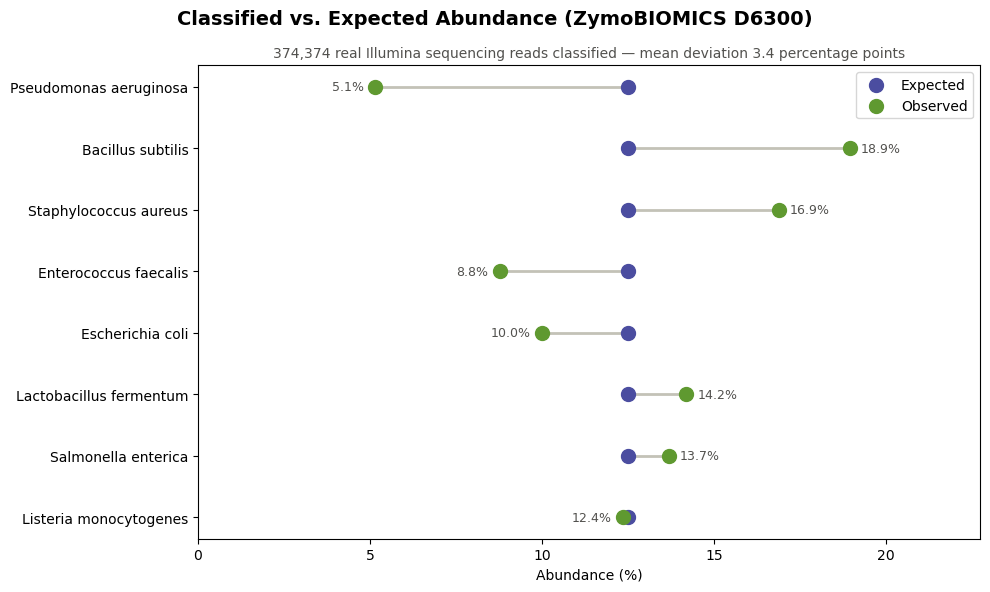
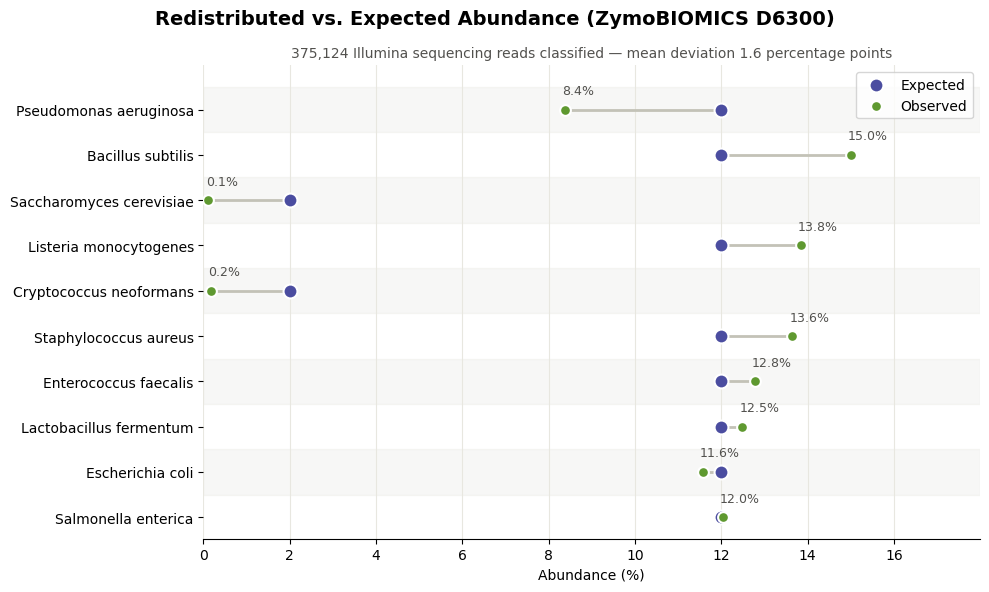
Brought README up to parity updated the validation figure with the new classification statistical methods.

diff --git a/docs/plot_zymobiomics_validation.py b/docs/plot_zymobiomics_validation.py
@@ -1,9 +1,9 @@
 """
-One-off portfolio graphic: observed vs. expected per-species abundance
-against the ZymoBIOMICS D6300 mock community, built from a completed
-pipeline.py run's classifications database.
+One-off portfolio graphic: redistributed observed vs. expected per-species
+abundance against the ZymoBIOMICS D6300 mock community, built from a
+completed classify_reads.py run's redistributed-abundance CSV.
 
-Dataset-specific - the ~12.5%-each expected values are Zymo's published
+Dataset-specific - the 12%/2% expected values are Zymo's published
 composition for this one commercial reference standard, which is why this
 lives here and not in src/visualization.py (general plotting code takes
 observed/expected as plain arguments; it doesn't know "Zymo" from any
@@ -16,28 +16,30 @@ import os
 import sys
 
 import matplotlib.pyplot as plt
+import pandas as pd
 from matplotlib.figure import Figure
 
 PROJECT_ROOT = os.path.dirname(os.path.dirname(os.path.abspath(__file__)))
 sys.path.insert(0, os.path.join(PROJECT_ROOT, "src"))
 
-from database import get_abundance  # type: ignore
-
-DB_PATH = os.path.join(PROJECT_ROOT, "results", "pseudomonas_investigation", "classifications.db")
+REDISTRIBUTED_CSV_PATH = os.path.join(PROJECT_ROOT, "results", "ten_species_redistribution", "classified_redistributed.csv")
 OUTPUT_PATH = os.path.join(PROJECT_ROOT, "results", "abundance_validation.png")
 
-# 8 species in the ZymoBIOMICS D6300 mock community, evenly represented by
-# Zymo's published design (1/8 = 12.5% each) - not something the classifier
-# measures, a fact about the reference standard itself.
+# 10 species in the ZymoBIOMICS D6300 mock community as of the 2026-08-17
+# yeast reintroduction: 8 bacteria at 12% each + 2 yeasts at 2% each
+# (8*12 + 2*2 = 100) - Zymo's published design, not something the
+# classifier measures, a fact about the reference standard itself.
 EXPECTED_ABUNDANCE = {
-    "Bacillus_subtilis_complete_genome": 12.5,
-    "Enterococcus_faecalis_complete_genome": 12.5,
-    "Escherichia_coli_complete_genome": 12.5,
-    "Lactobacillus_fermentum_complete_genome": 12.5,
-    "Listeria_monocytogenes_complete_genome": 12.5,
-    "Pseudomonas_aeruginosa_complete_genome": 12.5,
-    "Salmonella_enterica_complete_genome": 12.5,
-    "Staphylococcus_aureus_complete_genome": 12.5,
+    "Bacillus_subtilis_complete_genome": 12.0,
+    "Enterococcus_faecalis_complete_genome": 12.0,
+    "Escherichia_coli_complete_genome": 12.0,
+    "Lactobacillus_fermentum_complete_genome": 12.0,
+    "Listeria_monocytogenes_complete_genome": 12.0,
+    "Pseudomonas_aeruginosa_complete_genome": 12.0,
+    "Salmonella_enterica_complete_genome": 12.0,
+    "Staphylococcus_aureus_complete_genome": 12.0,
+    "Cryptococcus_neoformans_complete_genome": 2.0,
+    "Saccharomyces_cerevisiae_complete_genome": 2.0,
 }
 
 
@@ -71,32 +73,37 @@ def plot_abundance_comparison(observed: dict[str, float], expected: dict[str, fl
     ax.set_yticklabels([_display_name(s) for s in species])
     ax.invert_yaxis()
 
+    # Zebra striping and gridlines behind everything else.
+    for y in y_positions[::2]:
+        ax.axhspan(y - 0.5, y + 0.5, color="#c3c2b7", alpha=0.12, zorder=0)
+    ax.xaxis.grid(True, color="#e8e7e0", linewidth=0.8, zorder=0)
+    ax.set_axisbelow(True)
+    for spine in ("top", "right", "left"):
+        ax.spines[spine].set_visible(False)
+
     xmin = [min(e, o) for e, o in zip(expected_vals, observed_vals)]
     xmax = [max(e, o) for e, o in zip(expected_vals, observed_vals)]
 
     ax.hlines(y_positions, xmin, xmax, colors="#c3c2b7", linewidth=2, zorder=1)
-    ax.scatter(expected_vals, y_positions, color="#4B4DA0", s=100, zorder=2, label="Expected")
-    ax.scatter(observed_vals, y_positions, color="#5F9930", s=100, zorder=2, label="Observed")
-
-    # Direct labels on the Observed dots only - Expected repeats the same
-    # 12.5% eight times, so labeling it too would just be noise. Offset in
-    # points (screen space), not data units, so the gap next to the dot
-    # stays a constant size regardless of the x-axis scale. Which side the
-    # label sits on flips with which side the dot is on, so it never
-    # collides with the connecting line.
-    for y, e, o in zip(y_positions, expected_vals, observed_vals):
-        offset, ha = (8, "left") if o >= e else (-8, "right")
-        ax.annotate(f"{o:.1f}%", (o, y), xytext=(offset, 0), textcoords="offset points",
-                    va="center", ha=ha, fontsize=9, color="#52514e")
+    # White ring keeps each dot legible crossing the connecting line/gridlines.
+    ax.scatter(expected_vals, y_positions, color="#4B4DA0", s=100,
+               edgecolors="white", linewidths=1.5, zorder=3, label="Expected")
+    ax.scatter(observed_vals, y_positions, color="#5F9930", s=60,
+               edgecolors="white", linewidths=1.5, zorder=3, label="Observed")
 
     # Start the x-axis at 0 rather than autoscaling tight to the data - a
-    # truncated axis makes any gap look more dramatic than it is. Extra
-    # headroom (not just 10%) leaves room for the direct labels above.
-    ax.set_xlim(0, max(expected_vals + observed_vals) * 1.2)
+    # truncated axis makes any gap look more dramatic than it is.
+    xmax_val = max(expected_vals + observed_vals) * 1.2
+    ax.set_xlim(0, xmax_val)
+
+    # Labels sit above the dot (not left/right) so they never cross the connecting line.
+    for y, o in zip(y_positions, observed_vals):
+        ax.annotate(f"{o:.1f}%", (o, y), xytext=(-2, 9), textcoords="offset points",
+                    va="bottom", ha="left", fontsize=9, color="#52514e")
 
     mean_abs_dev = sum(abs(o - e) for o, e in zip(observed_vals, expected_vals)) / len(species)
     if n_reads is not None:
-        subtitle = f"{n_reads:,} real Illumina sequencing reads classified — mean deviation {mean_abs_dev:.1f} percentage points"
+        subtitle = f"{n_reads:,} Illumina sequencing reads classified — mean deviation {mean_abs_dev:.1f} percentage points"
     else:
         subtitle = f"mean deviation {mean_abs_dev:.1f} percentage points from expected"
 
@@ -112,13 +119,16 @@ def plot_abundance_comparison(observed: dict[str, float], expected: dict[str, fl
 
 
 def main():
-    abundance_df = get_abundance(DB_PATH)
-    observed = dict(zip(abundance_df["best_match"], abundance_df["percent"]))
-    n_reads = int(abundance_df["total"].iloc[0])
+    redistributed_df = pd.read_csv(REDISTRIBUTED_CSV_PATH)
+    observed = dict(zip(redistributed_df["species"], redistributed_df["percentage"]))
+    # Every classified read contributes exactly 1.0 total credit across the
+    # species it hit (proportional vote-share splitting), so the sum of
+    # estimated_reads is exactly the total classified-read count.
+    n_reads = round(redistributed_df["estimated_reads"].sum())
 
     plot_abundance_comparison(
         observed, EXPECTED_ABUNDANCE,
-        title="Classified vs. Expected Abundance (ZymoBIOMICS D6300)",
+        title="Redistributed vs. Expected Abundance (ZymoBIOMICS D6300)",
         n_reads=n_reads,
         output_path=OUTPUT_PATH,
     )

diff --git a/README.md b/README.md
@@ -29,9 +29,9 @@ python src/pipeline.py \
   --source SRA
 ```
 
-Everything it produces (index, classifications CSV, SQLite database,
-diversity report, species-abundance CSV, abundance plot) lands in
-`--output-dir`. A few flags worth knowing about:
+Everything it produces (index, classifications CSV, redistributed-abundance
+CSV, SQLite database, diversity report, species-abundance CSV, abundance
+plot) lands in `--output-dir`. A few flags worth knowing about:
 
 - `--index path/to/kmer_index.pkl` reuses an existing index instead of
   rebuilding it. It's independent of `--genome-dir`. If you pass both,
@@ -66,22 +66,38 @@ them with `--help` for their options.
   appear in many genomes by chance (DNA has only 4 letters), making them
   non-discriminating. Real tools like Kraken2 use k in the 21-35 range for
   the same reason.
+- **Splitting votes for better abundance estimates**: alongside the
+  per-read winner-take-all CSV, `classify_reads.py` also splits each
+  read's k-mer votes proportionally across every species it hit, instead
+  of giving the whole read to one winner. See "Validated accuracy" below
+  for the measured effect.
 
 ### Validated accuracy
 
-Classified 390,381 real Illumina reads (SRA accession SRR10391187, from the
-ZymoBIOMICS D6300 mock community with 8 bacterial species at ~12% each) against
-an 8-species reference index (k=21, 30.5M k-mers):
+Classified 390,381 real Illumina reads (SRA accession SRR10391187) against a
+10-species ZymoBIOMICS D6300 reference index (8 bacteria at 12% each, 2
+yeasts at 2% each, k=21, 68.66M k-mers).
 
-- All 8 expected species correctly detected, no phantom species
-- 95.9% of reads classified (4.1% unclassified)
-- Per-species abundance in the 4.9%–18.2% range (theoretical truth: 12%
-  each) — deviations are explainable by genome size, GC content/sequencing
-  bias, and ambiguous k-mer vote-sharing, not unexplained noise
+**Redistributed bacterial abundance lands within 12.3% mean relative
+deviation of ground truth, better than [Zymo's own published <15% baseline](https://files.zymoresearch.com/protocols/_d6300_zymobiomics_microbial_community_standard.pdf)
+from their in-house shotgun sequencing.** That's despite SRR10391187 turning
+out to be 16S rRNA amplicon sequencing, not whole-genome shotgun as
+originally assumed. That's more challenging for a whole-genome k-mer
+classifier, since each read only covers a ~588bp PCR-amplified slice of the
+genome rather than a uniform sample of it.
+
+The two yeasts (Saccharomyces cerevisiae, Cryptococcus neoformans) landed at
+roughly 1/10th to 1/30th of their expected 2% each, and vote-splitting
+barely moved them. Confirmed via SRA metadata: bacteria-targeted 16S
+primers generally don't amplify fungal rRNA, so most yeast DNA was never in
+the sequenced pool to begin with.
+
+All 10 species were still correctly detected (no phantoms), 96.1% of reads
+classified.
 
 ### Validation graphic
 
-![Classified vs. expected abundance for each species in the ZymoBIOMICS mock community](docs/abundance_validation.png)
+![Redistributed vs. expected abundance for each species in the ZymoBIOMICS mock community](docs/abundance_validation.png)
 
 Same validation run as above, plotted against the known ground truth. This
 simply validates the tool's accuracy, it isn't a core component of the
@@ -105,9 +121,9 @@ See `src/benchmark.py`.
 
 A `Dockerfile` is included (`python:3.13-slim`, entrypoint wraps
 `pipeline.py`, reference genomes baked into the image). Verified: a
-container build reproduces the pipeline's validated accuracy on the
-ZymoBIOMICS dataset (390,381 reads classified, 95.9% classified, 8/8
-species detected) with no changes needed from the pure-code run:
+container build reproduces the pipeline's output identically to a
+bare-metal run, on the 8-species pre-redistribution baseline (see
+"Validated accuracy" above for current numbers):
 
 ```bash
 docker build -t sequence-to-taxa-processor .
@@ -147,8 +163,9 @@ sequence-to-taxa-processor/
 
 ### Project status
 
-- **Done**: core k-mer classifier, real FASTA/FASTQ parsing, SQLite storage
-  with per-sample abundance queries, diversity metrics (species richness,
+- **Done**: core k-mer classifier, proportional vote-splitting for
+  abundance estimates, real FASTA/FASTQ parsing, SQLite storage with
+  per-sample abundance queries, diversity metrics (species richness,
   Shannon index), GC-outlier and read-quality QC (`qc.py`), a
   species-abundance-by-sample visualization, a unified `pipeline.py` CLI,
   CI running the test suite on every push, Docker containerization
@@ -160,6 +177,6 @@ sequence-to-taxa-processor/
 
 Validation (not core to the tool) uses the **ZymoBIOMICS Microbial Community
 Standard (D6300)**, a commercially defined mock community with known
-composition BioProject PRJNA587452, SRA accession SRR10391187. Reference
-genomes for its 8 bacterial species are committed under
+composition, BioProject PRJNA587452, SRA accession SRR10391187. Reference
+genomes for its 8 bacterial species and 2 yeast species are committed under
 `data/reference/Genomes/`.
